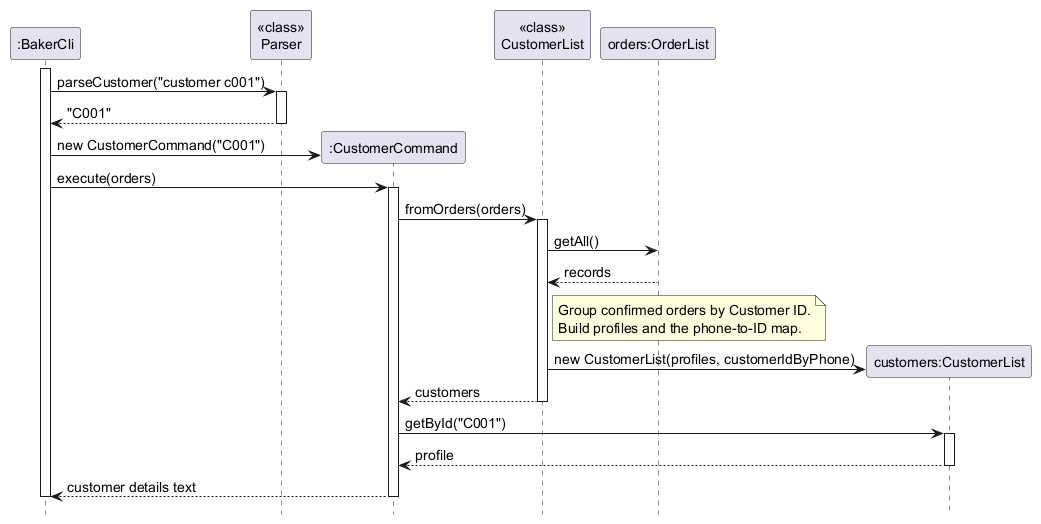
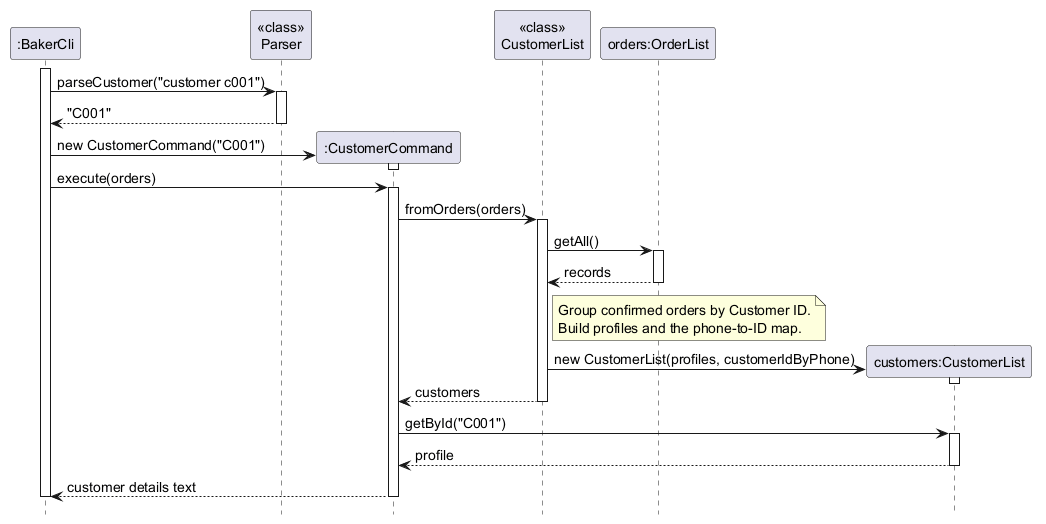
Fix DG sequence diagrams
Align activation boxes with method execution, reuse the saving flow, and document capacity persistence as pending PR #42.

diff --git a/docs/DeveloperGuide.md b/docs/DeveloperGuide.md
@@ -33,9 +33,6 @@ source version when publishing these guides.
 
 * This project started from the CS2113 team project template, which is why the code keeps the
   `seedu.duke` package name.
-* Eethanzyj used OpenAI Codex to assist with the Add Order implementation and refactoring,
-  unused model cleanup, automated tests, and associated documentation and diagrams. Moved customer and capacity
-  logic retains its original author tags.
 * The structure and style of this guide follow the
   [AddressBook-Level3 Developer Guide](https://se-education.org/addressbook-level3/DeveloperGuide.html).
 * Diagrams are drawn with [PlantUML](https://plantuml.com). The `.puml` source of each diagram is in
@@ -377,6 +374,13 @@ because `ListCommand` excludes them.
 
 ![Mark-and-save sequence diagram](diagrams/rendered/MarkAndSaveSequenceDiagram.png)
 
+<!-- @@author Eethanzyj -->
+The diagram shows a successful `QUEUED` to `PREPARING` transition. Activation boxes
+show each method's execution, including constructors and nested calls. Invalid
+transitions return an error without changing the order or requesting a save.
+The final reference uses the shared saving flow below to avoid repeating file operations.
+<!-- @@author -->
+
 *Alternative considered:* a `done` command that jumps straight to `COLLECTED` is simpler, but the baker would lose
 the difference between "in the oven" and "waiting for pickup", which is the point of tracking status.
 
@@ -386,6 +390,13 @@ the difference between "in the oven" and "waiting for pickup", which is the poin
 `Duke` loads the file into the `OrderList`. After every successful command that changes records, `BakerCli` runs an
 `afterChange` callback supplied by `Duke`, which saves. Passing a callback instead of giving `BakerCli` a `Storage`
 keeps the command loop unaware of files, and keeps the "warn the user if saving failed" rule in one place.
+
+<!-- @@author Eethanzyj -->
+The [saving sequence](#creating-and-saving-an-order) above also applies after successful
+`edit`, `cancel` and `mark` commands. Its precondition is a successful in-memory
+change; only the confirmation text differs. A save failure leaves that change in
+memory and prints a warning. Each activation ends when its method completes.
+<!-- @@author -->
 
 *Alternative considered:* saving only on `bye` means less file writing, but any crash or closed terminal would lose
 the whole session.
@@ -505,6 +516,34 @@ start. The user guide lists this under Current Limitations.
 *Proposed implementation.* Write the capacity as a first line such as `#capacity 3` in the data file. Make
 `Storage.load` read that line and call `setDailyCapacity`, and make it skip other lines that start with `#`
 instead of treating them as corrupted. Older files without the line keep working with the default of 5.
+
+<!-- @@author Eethanzyj -->
+#### Capacity persistence: pending storage integration
+
+The following diagrams describe [PR #42](https://github.com/AY2627S1-CS2113-W12-1/tp/pull/42),
+which is pending integration. They do not describe the current master implementation.
+After that PR is merged, the current limitation and proposal above must be replaced
+with the implemented behavior below.
+
+![Capacity restoration sequence](diagrams/CapacityRestoreSequence.png)
+
+`Storage.load()` creates an `OrderList` with the default capacity of 5. A valid
+`# dailyCapacity=NUMBER` line restores the saved value through `setDailyCapacity`.
+Older files without this header retain the default. Invalid records, invalid capacity
+settings or unreadable data stop startup before commands can modify the records.
+
+![Capacity saving sequence](diagrams/CapacitySaveSequence.png)
+
+After a successful `capacity NUMBER`, `BakerCli` runs the same save callback used
+for record changes. `Storage.save()` writes the capacity header and records to a
+temporary file before replacing the save file. Bare `capacity` and invalid commands
+do not request saving. The callback reports a save failure and keeps the changed
+capacity for the current session only.
+
+Sources: [restoration](diagrams/CapacityRestoreSequence.puml) and
+[saving](diagrams/CapacitySaveSequence.puml). Update these diagrams and the related
+documentation together when the storage implementation is integrated.
+<!-- @@author -->
 
 ### Customer and history features
 
